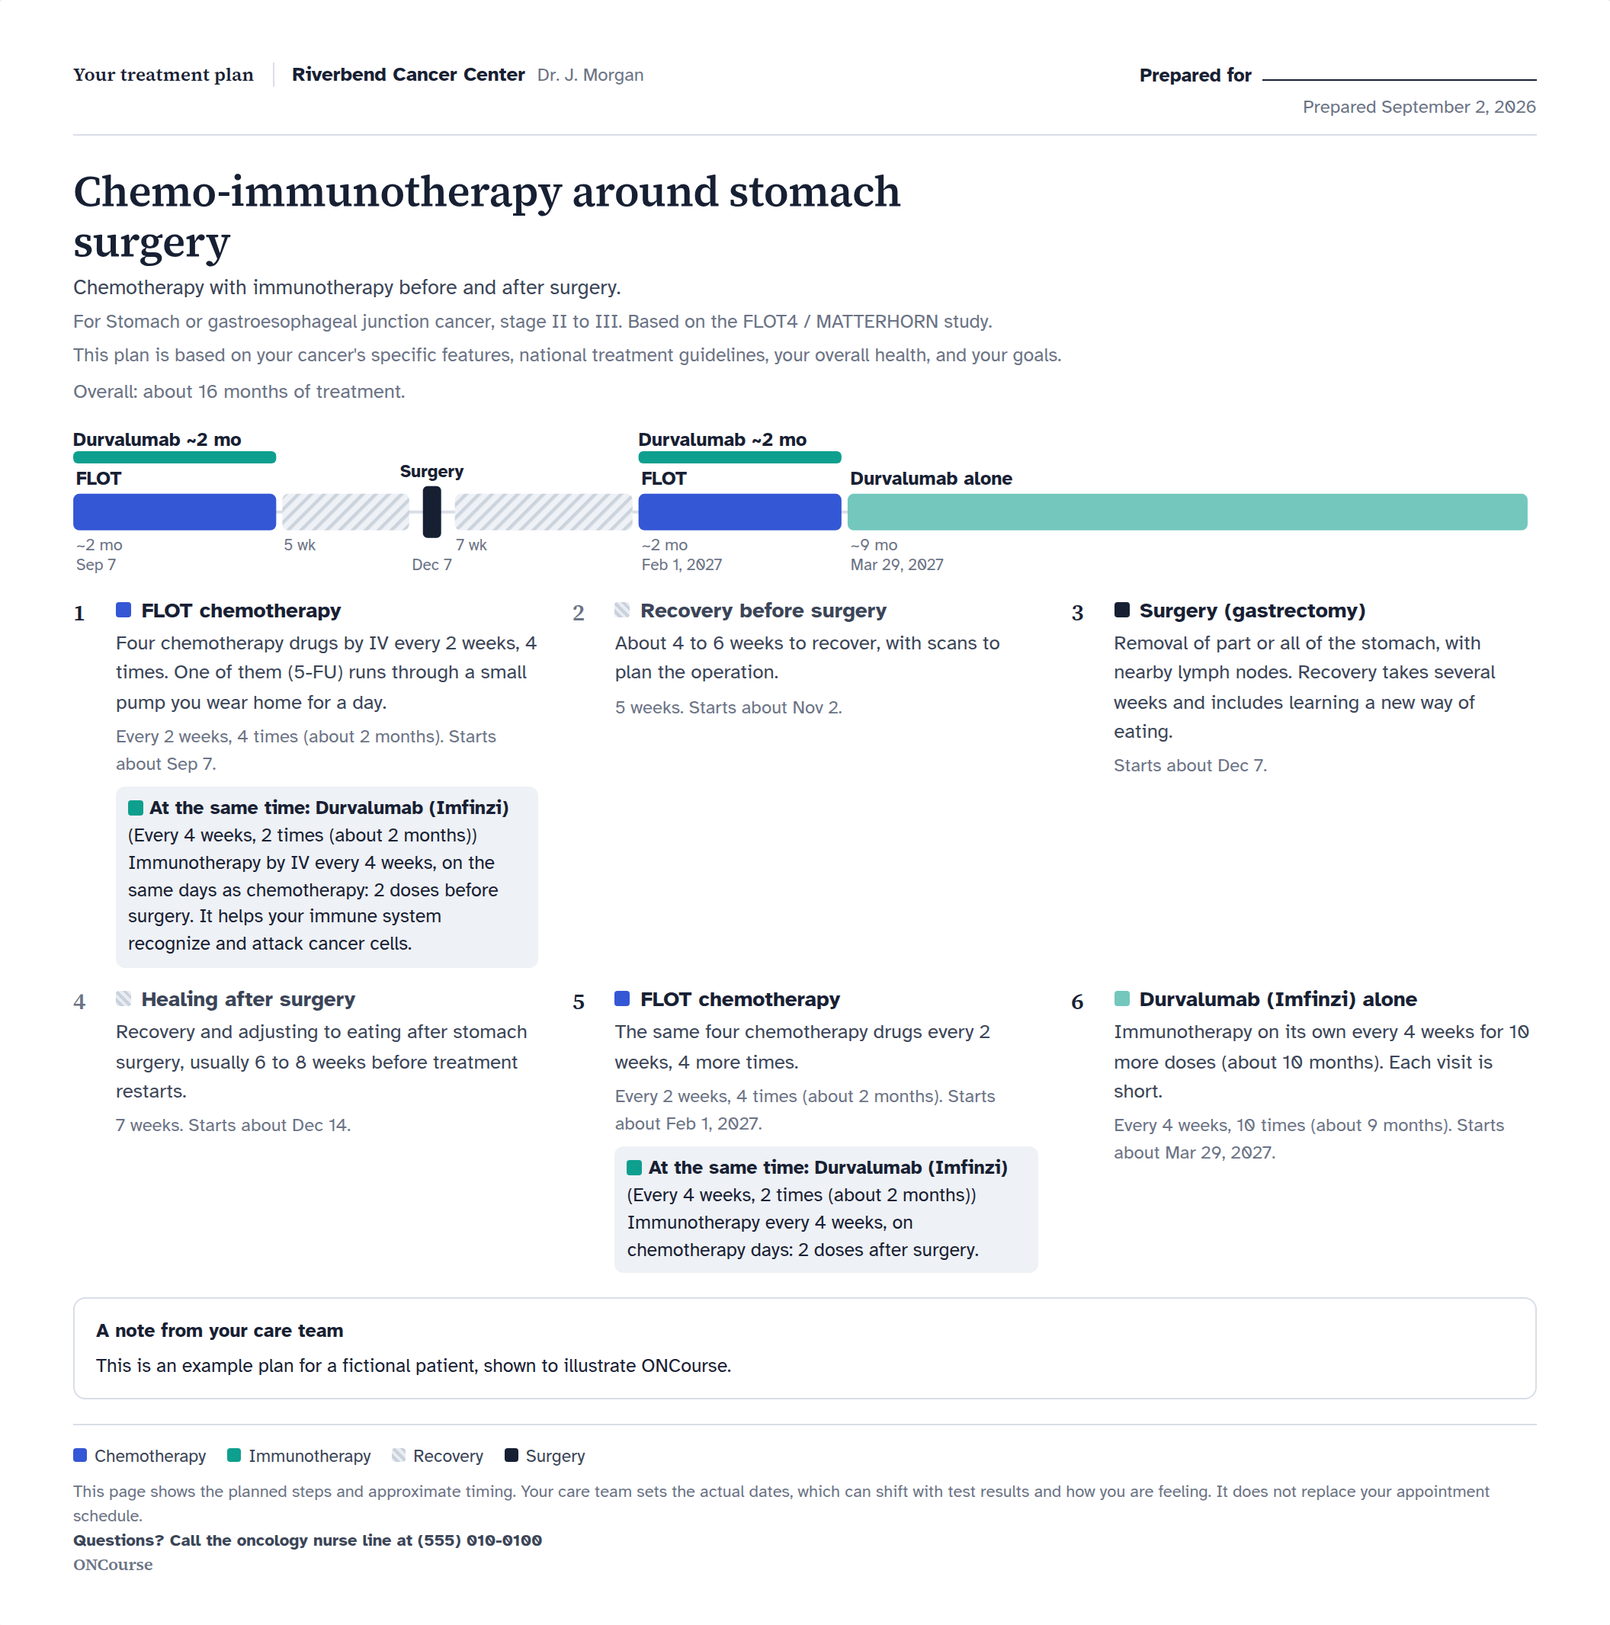
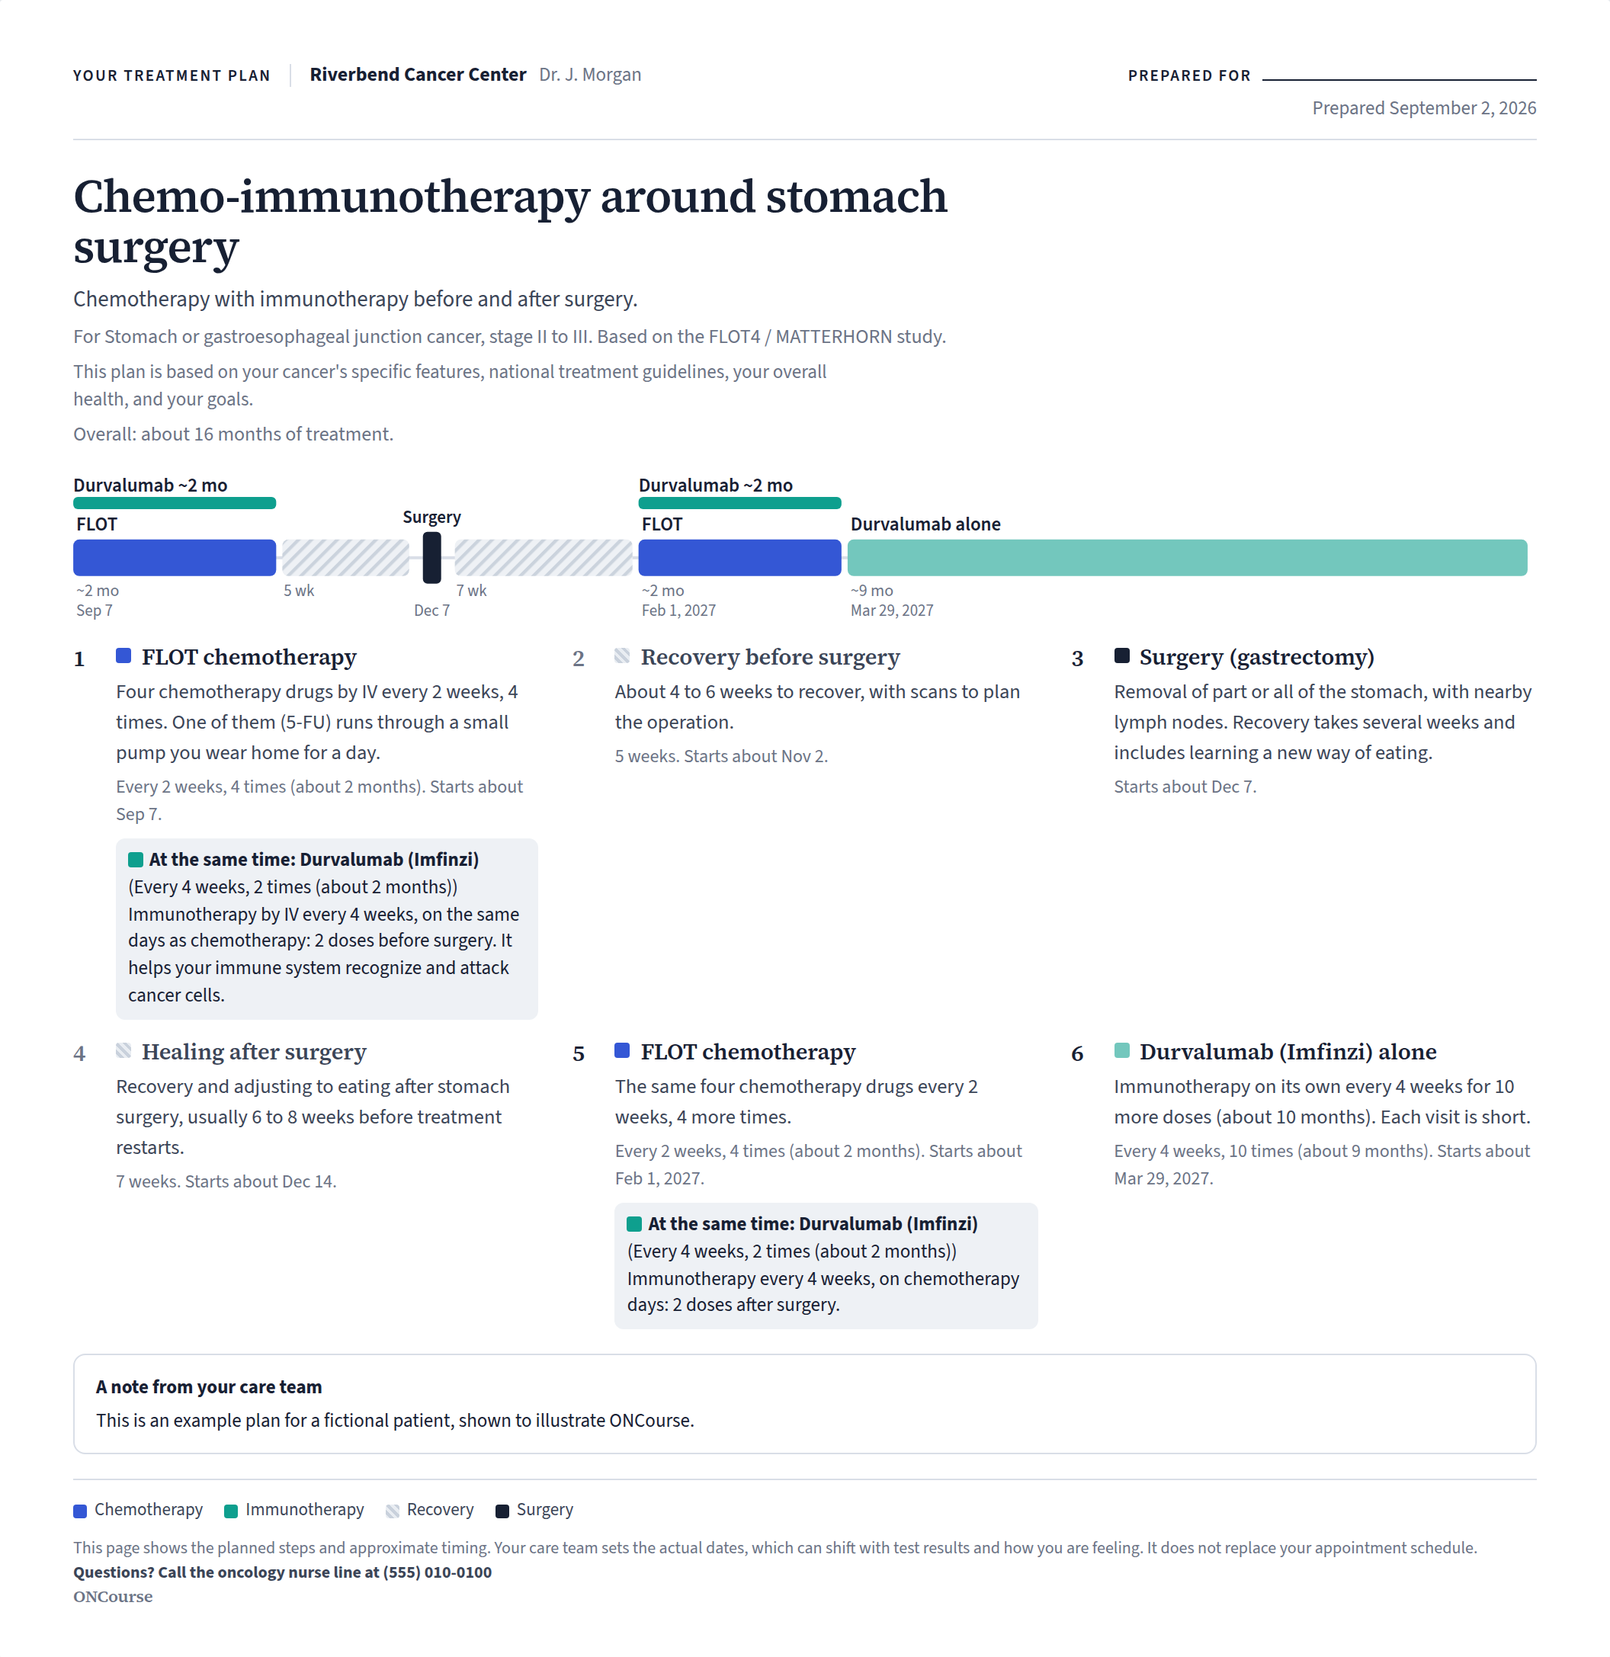
Handout typography: Source Sans 3 body with Source Serif 4 titles
The handout (sheet, compare sheet, and the timeline SVG) now sets its
own document font stack: Source Sans 3 for body text and map labels,
paired with Source Serif 4 for the page title, step titles, branch
headings, and the tailored card. Both are Adobe's Source family, so the
pairing is native. Refinements: tracked uppercase for the small header
labels ("Your treatment plan", "Prepared for") and branch tags, tabular
numerals, a slightly larger title with tighter tracking, semibold (600)
map labels in place of bold, and a touch more line-height in step text.
Atkinson Hyperlegible stays for the builder and public pages.

Fonts are self-hosted latin subsets (OFL), added to fonts/fonts.css with
a LICENSES.md; the image exports embed the new faces. Print regression:
all 50 pathways still one page in both orientations. Example images
regenerated; the browser harness treats 600+ as label weight.

Claude-Session: https://claude.ai/code/session_01Y3Tfh74JNeao5syQge4XYJ

diff --git a/app.html b/app.html
@@ -14,6 +14,7 @@
   --surgery:#172033; --rest:#CBD3DD; --watch:#4C9A5B;
   --serif:'Source Serif 4', Georgia, 'Times New Roman', serif;
   --sans:'Atkinson Hyperlegible', 'Segoe UI', Roboto, Helvetica, Arial, sans-serif;
+  --doc:'Source Sans 3', 'Atkinson Hyperlegible', 'Segoe UI', Roboto, Helvetica, Arial, sans-serif;
 }
 *{box-sizing:border-box}
 html,body{margin:0;height:100%}
@@ -146,24 +147,24 @@ body.patient .main{padding:24px 20px 60px}
 
 /* ---------- the patient sheet ---------- */
 .main{overflow:auto;padding:28px 32px 60px}
-.sheet{background:var(--paper);max-width:1056px;margin:0 auto;padding:40px 48px 32px;box-shadow:0 1px 2px rgba(23,32,51,.06),0 14px 44px rgba(23,32,51,.10);border-radius:2px}
-.sh-head{display:flex;justify-content:space-between;align-items:baseline;gap:16px;font-size:12px;color:var(--muted);border-bottom:1px solid var(--line);padding-bottom:10px}
+.sheet{font-family:var(--doc);font-size:14px;line-height:1.5;font-variant-numeric:tabular-nums;text-rendering:optimizeLegibility;background:var(--paper);max-width:1056px;margin:0 auto;padding:40px 48px 32px;box-shadow:0 1px 2px rgba(23,32,51,.06),0 14px 44px rgba(23,32,51,.10);border-radius:2px}
+.sh-head{display:flex;justify-content:space-between;align-items:baseline;gap:16px;font-size:12.5px;color:var(--muted);border-bottom:1px solid var(--line);padding-bottom:10px}
 .sh-prep{display:flex;flex-direction:column;align-items:flex-end;gap:3px}
-.sh-prep .prepfor b{color:var(--ink);font-size:12.5px;font-weight:700}
+.sh-prep .prepfor b{color:var(--ink);font-size:10.5px;font-weight:600;letter-spacing:.1em;text-transform:uppercase}
 .sh-prep .fillline{display:inline-block;width:180px;border-bottom:1px solid var(--ink);height:1.05em;margin-left:7px;vertical-align:baseline}
 .sh-head b{color:var(--ink);font-weight:700;font-size:13px}
-.doclabel{font:600 12px/1 var(--serif);color:var(--ink);letter-spacing:.01em;margin-right:12px;padding-right:12px;border-right:1px solid var(--line)}
-.sh-for{margin:4px 0 0;font-size:12.5px;color:var(--muted)}
+.doclabel{font:600 10.5px/1 var(--doc);color:var(--ink);letter-spacing:.11em;text-transform:uppercase;margin-right:12px;padding-right:12px;border-right:1px solid var(--line)}
+.sh-for{margin:5px 0 0;font-size:13px;color:var(--muted)}
 .sh-frame{margin:6px 0 0;font-size:13px;color:var(--ink-2);max-width:80ch}
 .sh-head .ph{margin-left:8px}
 .sh-top{display:grid;grid-template-columns:1fr 288px;gap:8px 32px;align-items:start}
 .sh-top.solo{grid-template-columns:1fr}
-.sh-title{font:600 28px/1.15 var(--serif);margin:20px 0 6px;letter-spacing:-.01em;max-width:36ch}
-.sh-sub{margin:0;font-size:13.5px;color:var(--ink-2);max-width:82ch}
+.sh-title{font:600 30px/1.1 var(--serif);margin:20px 0 8px;letter-spacing:-.018em;max-width:36ch;color:var(--ink)}
+.sh-sub{margin:0;font-size:14.5px;line-height:1.45;color:var(--ink-2);max-width:82ch}
 .sh-basis{margin:5px 0 0;font-size:12.5px;line-height:1.4;color:var(--muted);max-width:82ch}
 .sh-total{margin:5px 0 0;font-size:13px;color:var(--muted)}
 .chosen{border:1px solid var(--line);border-radius:10px;padding:13px 16px 11px;margin-top:23px}
-.chosen h2{font:600 13.5px/1.3 var(--serif);margin:0 0 7px;color:var(--ink)}
+.chosen h2{font:600 14px/1.3 var(--serif);margin:0 0 7px;color:var(--ink)}
 .chosen ul{list-style:none;margin:0;padding:0}
 .chosen li{display:flex;gap:8px;font-size:11.5px;line-height:1.4;padding:2.5px 0;color:var(--ink-2)}
 .chosen .ck{color:var(--ink);font-weight:700;flex:none}
@@ -172,11 +173,11 @@ body.patient .main{padding:24px 20px 60px}
 .steps{list-style:none;margin:8px 0 0;padding:0;display:grid;grid-template-columns:repeat(3,1fr);gap:12px 22px}
 .step{display:grid;grid-template-columns:22px 1fr;gap:6px;break-inside:avoid}
 .step-n{font:600 15px/1 var(--serif);color:var(--ink);padding-top:2px}
-.step h3{margin:0;font-size:14px;line-height:1.25;display:flex;align-items:flex-start;gap:7px}
+.step h3{margin:0;font:600 14.5px/1.3 var(--serif);letter-spacing:-.005em;display:flex;align-items:flex-start;gap:7px}
 .chip{width:10px;height:10px;border-radius:2px;flex:none;margin-top:3px;background:var(--c1)}
 .chip.two{background:linear-gradient(180deg,var(--c1) 50%,var(--c2) 50%)}
 .chip.rest{background:repeating-linear-gradient(45deg,#E9EDF2 0 2px,#C9D1DC 2px 4px)}
-.step p{margin:4px 0 0;font-size:13px;line-height:1.48;color:var(--ink-2)}
+.step p{margin:4px 0 0;font-size:13.25px;line-height:1.5;color:var(--ink-2)}
 .step p.meta{color:var(--muted);font-size:12px}
 .step.rest .step-n{color:var(--muted)}
 .step.rest h3{font-weight:600;color:var(--ink-2)}
@@ -190,8 +191,8 @@ body.patient .main{padding:24px 20px 60px}
 .branch{padding:0 0 0 12px;border-left:3px solid var(--line)}
 .branch.expected{border-left-color:var(--ink)}
 .branch.dim{opacity:.55}
-.branch h4{margin:0 0 8px;font-size:13px;display:flex;align-items:center;gap:8px;flex-wrap:wrap}
-.tag{font-size:10.5px;padding:2px 7px;border-radius:999px;background:var(--ink);color:#fff;font-weight:600}
+.branch h4{margin:0 0 8px;font:600 13.5px/1.3 var(--serif);display:flex;align-items:center;gap:8px;flex-wrap:wrap}
+.tag{font:600 10px/1.4 var(--doc);letter-spacing:.06em;text-transform:uppercase;padding:2px 8px;border-radius:999px;background:var(--ink);color:#fff}
 .branch .steps{grid-template-columns:1fr;gap:8px;margin:0}
 .visits{margin:6px 0 0;padding:0;list-style:none;font-size:12px;color:var(--ink-2)}
 .visits li{display:flex;gap:8px;padding:2px 0;border-top:1px dotted var(--line)}
@@ -1046,7 +1047,7 @@ function renderRoute(ctx, startDate, colors){
     g += curve(f.fx, cy(f.frow), f.tx, cy(f.trow), f.dim);
     const lines = wrapText(f.cond, 21);
     if (f.single){ lines.forEach((ln, i) => { g += T(f.fx + 8, cy(f.frow) + 24 + i * 12, ln, { size:10.5, fill:'#3B4557', weight:600, halo:3.5 }); }); }
-    else { const base = cy(f.trow) - 10 - (lines.length - 1) * 12; lines.forEach((ln, i) => { g += T(f.tx - 6, base + i * 12, ln, { size:10.5, anchor:'end', fill: f.dim ? '#9AA3B2' : '#172033', weight: f.expected ? 700 : 400, halo:3.5 }); }); }
+    else { const base = cy(f.trow) - 10 - (lines.length - 1) * 12; lines.forEach((ln, i) => { g += T(f.tx - 6, base + i * 12, ln, { size:10.5, anchor:'end', fill: f.dim ? '#9AA3B2' : '#172033', weight: f.expected ? 600 : 400, halo:3.5 }); }); }
   }
   for (const m of ctx.merges){ for (const e of m.ends) g += curve(e.x, cy(e.row), m.tx, cy(m.trow)); }
   const prevUp = (i) => { const it = ctx.items[i]; for (let j = i - 1; j >= 0; j--){ const q = ctx.items[j]; if (q.kind === 'up' && q.row === it.row && q.lane === it.lane) return j; } return -1; };
@@ -1063,10 +1064,10 @@ function renderRoute(ctx, startDate, colors){
     if (it.kind === 'decision'){
       const cx = it.x + L.diamond / 2, c = cy(it.row);
       s += `<path d="M${cx} ${c - 10} L${cx + 10} ${c} L${cx} ${c + 10} L${cx - 10} ${c} Z" fill="#fff" stroke="#172033" stroke-width="1.6"/>`;
-      s += T(cx, y0 + durY + 2, n.short || 'Results', { size:11.5, weight:700, fill:'#172033', anchor:'middle', halo:3.5 });
+      s += T(cx, y0 + durY + 2, n.short || 'Results', { size:11.5, weight:600, fill:'#172033', anchor:'middle', halo:3.5 });
     } else if (it.kind === 'event'){
       s += `<rect x="${it.x + 5}" y="${y0 + barY - 5}" width="12" height="${L.barH + 10}" rx="3" fill="#172033"/>`;
-      s += T(it.x + 11, y0 + nameY - 5, trunc(n.name.replace(/\s*\(.*\)\s*$/, ''), 12), { size:11.5, weight:700, fill:'#172033', anchor:'middle' });
+      s += T(it.x + 11, y0 + nameY - 5, trunc(n.name.replace(/\s*\(.*\)\s*$/, ''), 12), { size:11.5, weight:600, fill:'#172033', anchor:'middle' });
       if (!ctx.noDate.has(n.id)) s += T(it.x + 11, y0 + startY, startText(it.week), { size:10.5, anchor:'middle' });
     } else if (it.kind === 'up'){
       const ly = y0 + extra + 12 - it.lane * 20;
@@ -1082,7 +1083,7 @@ function renderRoute(ctx, startDate, colors){
         }
         if (laneEnd == null){ const e = ctx.rowExt[it.row]; laneEnd = (e && isFinite(e.max) ? e.max : it.x + it.w) + 12; }
         const budget = Math.max(8, Math.floor((Math.min(laneEnd, width - 4) - ci.x) / 7.2));
-        s += T(ci.x, ly - 3.5, trunc(ci.text, budget), { size:12.5, fill:'#172033', weight:700 });
+        s += T(ci.x, ly - 3.5, trunc(ci.text, budget), { size:12.5, fill:'#172033', weight:600 });
       }
     } else {
       const w = nodeWeeks(n);
@@ -1117,7 +1118,7 @@ function renderRoute(ctx, startDate, colors){
           lines = [truncL(segs.join(' + '), maxC), truncL(last, maxC)];
         } else lines = wrapText(label, maxC).map(l => truncL(l, maxC));
         if (lines.length > 1 && hasUp) lines = [truncL(label, maxC)];
-        lines.forEach((ln, i) => { s += T(it.x + 2, y0 + nameY - (lines.length - 1 - i) * 12.5, ln, { size:12.5, weight:700, fill:'#172033' }); });
+        lines.forEach((ln, i) => { s += T(it.x + 2, y0 + nameY - (lines.length - 1 - i) * 12.5, ln, { size:12.5, weight:600, fill:'#172033' }); });
         s += T(it.x + 2, y0 + durY, n.openEnded ? 'ongoing' : (n.mode === 'weekdays' && !(w > 0)) ? 'to be set' : durShort(w), { size:11 });
         if (!ctx.noDate.has(n.id)) s += T(it.x + 2, y0 + startY, startText(it.week), { size:10.5 });
       } else {
@@ -1127,7 +1128,7 @@ function renderRoute(ctx, startDate, colors){
     const doneDim = state.opts.progressDim && it.node && it.node.done && it.kind !== 'decision';
     g += (it.dim || doneDim) ? `<g opacity="${it.dim ? '.38' : '.45'}">${s}</g>` : s;
   }
-  return `<svg viewBox="0 0 ${width} ${height}" xmlns="http://www.w3.org/2000/svg" font-family="Atkinson Hyperlegible, Segoe UI, Arial, sans-serif" role="img" aria-label="Treatment timeline"><defs>${defs}</defs>${g}</svg>`;
+  return `<svg viewBox="0 0 ${width} ${height}" xmlns="http://www.w3.org/2000/svg" font-family="Source Sans 3, Atkinson Hyperlegible, Segoe UI, Arial, sans-serif" role="img" aria-label="Treatment timeline"><defs>${defs}</defs>${g}</svg>`;
 }
 
 /* ===================== patient sheet ===================== */
@@ -1348,7 +1349,7 @@ function renderMiniRoute(ctx, colors, width){
     }
     g += it.dim ? `<g opacity=".38">${s}</g>` : s;
   }
-  return `<svg viewBox="0 0 ${width} ${height}" xmlns="http://www.w3.org/2000/svg" font-family="Atkinson Hyperlegible, Segoe UI, Arial, sans-serif"><defs>${defs}</defs>${g}</svg>`;
+  return `<svg viewBox="0 0 ${width} ${height}" xmlns="http://www.w3.org/2000/svg" font-family="Source Sans 3, Atkinson Hyperlegible, Segoe UI, Arial, sans-serif"><defs>${defs}</defs>${g}</svg>`;
 }
 function renderCompareSheet(){
   const c = state.compare, o = state.opts;
@@ -1752,7 +1753,7 @@ async function saveImage(){
 }
 // self-hosted fonts as data URIs, so an exported image renders with the site's own type
 async function fontCss(css){
-  const fontFiles = ['atkinson-hyperlegible-latin-400-normal','atkinson-hyperlegible-latin-400-italic','atkinson-hyperlegible-latin-700-normal','source-serif-4-latin-500-normal','source-serif-4-latin-600-normal'];
+  const fontFiles = ['atkinson-hyperlegible-latin-400-normal','atkinson-hyperlegible-latin-400-italic','atkinson-hyperlegible-latin-700-normal','source-serif-4-latin-500-normal','source-serif-4-latin-600-normal','source-sans-3-latin-400-normal','source-sans-3-latin-400-italic','source-sans-3-latin-600-normal','source-sans-3-latin-700-normal'];
   let out = css;
   for (const f of fontFiles){
     try {

diff --git a/index.html b/index.html
@@ -34,9 +34,9 @@
       <button type="button" role="tab" id="hstab-2" aria-controls="hs-2" aria-selected="false" data-i="2">Stomach and GEJ</button>
     </div>
     <div class="hsview" id="hsview">
-      <a class="heroimg hsslide on" id="hs-0" role="tabpanel" aria-labelledby="hstab-0" href="app.html#r=kn522&demo=1" aria-label="Open the triple-negative breast cancer example"><img src="hero.png" alt="An ONCourse treatment map for stage II to III triple-negative breast cancer: chemo-immunotherapy, surgery, a pathology decision point, then immunotherapy" width="2112" height="2750"></a>
-      <a class="heroimg hsslide" id="hs-1" role="tabpanel" aria-labelledby="hstab-1" href="app.html#r=ev303&demo=1" aria-label="Open the muscle-invasive bladder cancer example"><img data-src="hero-ev303.png" alt="An ONCourse treatment map for muscle-invasive bladder cancer: enfortumab vedotin with pembrolizumab, cystectomy, then more of both" width="2112" height="1894"></a>
-      <a class="heroimg hsslide" id="hs-2" role="tabpanel" aria-labelledby="hstab-2" href="app.html#r=flot&demo=1" aria-label="Open the stomach and gastroesophageal junction cancer example"><img data-src="hero-flot.png" alt="An ONCourse treatment map for stomach or gastroesophageal junction cancer: FLOT chemotherapy with durvalumab, surgery, then more of both" width="2112" height="2132"></a>
+      <a class="heroimg hsslide on" id="hs-0" role="tabpanel" aria-labelledby="hstab-0" href="app.html#r=kn522&demo=1" aria-label="Open the triple-negative breast cancer example"><img src="hero.png" alt="An ONCourse treatment map for stage II to III triple-negative breast cancer: chemo-immunotherapy, surgery, a pathology decision point, then immunotherapy" width="2112" height="2770"></a>
+      <a class="heroimg hsslide" id="hs-1" role="tabpanel" aria-labelledby="hstab-1" href="app.html#r=ev303&demo=1" aria-label="Open the muscle-invasive bladder cancer example"><img data-src="hero-ev303.png" alt="An ONCourse treatment map for muscle-invasive bladder cancer: enfortumab vedotin with pembrolizumab, cystectomy, then more of both" width="2112" height="1944"></a>
+      <a class="heroimg hsslide" id="hs-2" role="tabpanel" aria-labelledby="hstab-2" href="app.html#r=flot&demo=1" aria-label="Open the stomach and gastroesophageal junction cancer example"><img data-src="hero-flot.png" alt="An ONCourse treatment map for stomach or gastroesophageal junction cancer: FLOT chemotherapy with durvalumab, surgery, then more of both" width="2112" height="2174"></a>
     </div>
     <p class="hscap" id="hscap" aria-live="polite">Triple-negative breast cancer, stage II to III &middot; KEYNOTE-522</p>
   </div>
@@ -87,7 +87,7 @@
 <section id="compare"><div class="wrap">
   <h2 style="font-size:24px">Comparing two options</h2>
   <p class="sub">When more than one regimen is reasonable, the decision visit is easier with both on one time scale. Months, visits, and the trade-offs, side by side.</p>
-  <div class="imgcard" style="margin-top:16px"><img src="compare.png" alt="A comparison page for stage III HER2-positive breast cancer, showing two regimens side by side with their timelines, total months, visit counts, advantages and trade-offs" width="2112" height="1476"></div>
+  <div class="imgcard" style="margin-top:16px"><img src="compare.png" alt="A comparison page for stage III HER2-positive breast cancer, showing two regimens side by side with their timelines, total months, visit counts, advantages and trade-offs" width="2112" height="1502"></div>
   <p class="more-link"><a class="btn small" href="app.html#cmp=demo" style="color:#fff">Open this comparison</a> <a class="btn sec small" href="app.html">Build your own</a></p>
 </div></section>
 

diff --git a/fonts/fonts.css b/fonts/fonts.css
@@ -33,3 +33,31 @@
   font-display:swap;
   src:url('source-serif-4-latin-600-normal.woff2') format('woff2');
 }
+@font-face{
+  font-family:'Source Sans 3';
+  font-style:normal;
+  font-weight:400;
+  font-display:swap;
+  src:url('source-sans-3-latin-400-normal.woff2') format('woff2');
+}
+@font-face{
+  font-family:'Source Sans 3';
+  font-style:italic;
+  font-weight:400;
+  font-display:swap;
+  src:url('source-sans-3-latin-400-italic.woff2') format('woff2');
+}
+@font-face{
+  font-family:'Source Sans 3';
+  font-style:normal;
+  font-weight:600;
+  font-display:swap;
+  src:url('source-sans-3-latin-600-normal.woff2') format('woff2');
+}
+@font-face{
+  font-family:'Source Sans 3';
+  font-style:normal;
+  font-weight:700;
+  font-display:swap;
+  src:url('source-sans-3-latin-700-normal.woff2') format('woff2');
+}

diff --git a/tests/browser.js b/tests/browser.js
@@ -39,7 +39,7 @@ const BASE = `http://localhost:${PORT}`;
       const r = await p.evaluate(() => {
         const svg = document.querySelector('.route svg');
         if (!svg || svg.getBoundingClientRect().height < 40) return { ok: false };
-        const bold = [...svg.querySelectorAll('text')].filter(t => t.getAttribute('font-weight') === '700');
+        const bold = [...svg.querySelectorAll('text')].filter(t => +t.getAttribute('font-weight') >= 600);
         let overlaps = 0;
         for (let i = 0; i < bold.length; i++) for (let j = i + 1; j < bold.length; j++){
           const a = bold[i].getBoundingClientRect(), c = bold[j].getBoundingClientRect();

diff --git a/fonts/LICENSES.md b/fonts/LICENSES.md
@@ -1,0 +1,11 @@
+# Bundled fonts
+
+All fonts are served from this folder so the site makes no third-party requests.
+Each is licensed under the SIL Open Font License 1.1 (OFL), which permits bundling
+and redistribution; the OFL text is available at https://openfontlicense.org.
+
+- Atkinson Hyperlegible (Braille Institute) — builder and public pages
+- Source Serif 4 (Adobe) — headings on the handout and site
+- Source Sans 3 (Adobe) — handout body and timeline labels
+
+Files are the "latin" subsets packaged by Fontsource (fontsource.org).
